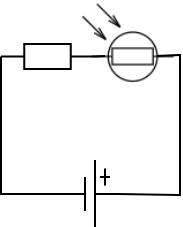
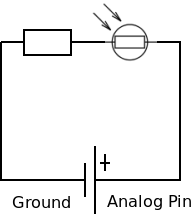
final version of the presentation

Changed region(s): [[0.0, 0.0279, 1.0, 1.0], [0.0546, 0.893, 0.3825, 0.9767], [0.5191, 0.0, 0.5464, 0.0279]]

diff --git a/presentation/content/implementation.tex b/presentation/content/implementation.tex
@@ -9,12 +9,13 @@
 \begin{Verbatim}[fontsize=\scriptsize]
 void setup() 
 {
-  sos = new Sos(mac_addr, 169);
+  sos = new Sos(mac_addr, 123);
+  // it will change
   sos->register_resource(
-    resource_name, resource_name_len, 
-    resource_title, resource_title_len,
-    resource_rt, resource_rt_len,
-    resource_handler);
+    "temp",
+    "Temperature",
+    "temp",
+    handler);
 }
 \end{Verbatim}
 		\end{column}
@@ -33,7 +34,7 @@ void loop()
 	\begin{columns}[c,onlytextwidth]
 		\begin{column}[c]{.5\textwidth}
 			\begin{center}
-				\includegraphics [width=.9\textwidth,keepaspectratio]{img/resistor_led.png}
+				\includegraphics [width=.9\textwidth,keepaspectratio]{img/resistor_led_analog.png}
 			\end{center}
 		\end{column}
 		\begin{column}[c]{.5\textwidth}
@@ -42,13 +43,17 @@ uint8_t process_led(Message &in,
 	               Message &out) 
 {
   int n;
-  char * payload = (char*) 
-    in.get_payload();
-  if(payload != NULL && 
-      sscanf ((const char *) payload, 
-	  "val=%d", &n) == 1)
-  	analogWrite(led, n);
-  out.set_code(COAP_RETURN_CODE(2,5));
+  for(option * o = in.get_option() ; 
+    o != NULL ; o = in.get_option())
+  {
+    if(o->optcode() == option::MO_Uri_Query)
+    {
+      if(sscanf ((const char *) opt.val(), 
+          "val=%d", &n) == 1)
+      	analogWrite(led, n);
+      out.set_code(COAP_RETURN_CODE(2,5));
+    }
+  }
   return 0;
 }
 \end{Verbatim}
@@ -85,33 +90,25 @@ uint8_t process_light(Message &in,
 	\end{columns}
 \end{frame}
 
-\begin{frame}[containsverbatim]{Thermistor}
-	\begin{columns}[c,onlytextwidth]
-		\begin{column}[c]{.5\textwidth}
-			\begin{center}
-				\includegraphics [width=.9\textwidth,keepaspectratio]{img/thermistor.png}
-			\end{center}
-		\end{column}
-		\begin{column}[c]{.5\textwidth}
-\begin{Verbatim}[fontsize=\scriptsize]
-uint8_t temperature_handler(Message &in, 
-                           Message &out) 
-{
-  char message[10];
-  for(int i(0) ; i < 10 ; i++)
-    message[i] = '\0';
-  int sensorValue = 
-    analogRead(tmp_sensor);
-  snprintf(message, 10, "%d\0", 
-                  sensorValue);
-  out.set_payload( strlen(message), 
-        (unsigned char *) message);
-  out.set_code(COAP_RETURN_CODE(2,5));
-  return 0;
-}
-\end{Verbatim}
-		\end{column}
-	\end{columns}
+\begin{frame}{Stats}
+	\begin{center}
+		\includegraphics<1> [width=1\textwidth,keepaspectratio] {pdf/memory0.pdf}
+		\includegraphics<2> [width=1\textwidth,keepaspectratio] {pdf/memory1.pdf}
+	\end{center}
+\end{frame}
+
+\begin{frame} {W5100}
+	\begin{itemize}
+		\item One position possible on the Arduino
+		\item Runs on 3 modes : 
+		\begin{itemize}
+			\item UDP
+			\item TCP
+			\item MAC Raw
+		\end{itemize}
+		\item Advantage : simple to work with UDP and TCP
+		\item Inconvenient : need to implement all other protocols
+	\end{itemize}
 \end{frame}
 
 \begin{frame} {Difficulties}

diff --git a/presentation/content/usage.tex b/presentation/content/usage.tex
@@ -34,14 +34,48 @@ void loop () {
 	\end{columns}
 \end{frame}
 
+\begin{frame}[containsverbatim]{Code sample : resistor and photoresistor}
+	\begin{columns}[c,onlytextwidth]
+		\begin{column}[c]{.5\textwidth}
+			\begin{center}
+				\includegraphics [width=.9\textwidth,keepaspectratio]{img/resistor_photoresistor.png}
+			\end{center}
+		\end{column}
+		\begin{column}[c]{.5\textwidth}
+\begin{Verbatim}[fontsize=\scriptsize]
+#define LIGHT_SENSOR_PIN A0
+
+void setup () {
+  pinMode (LIGHT_SENSOR_PIN, INPUT);
+  Serial.begin(9600);
+}
+
+void loop () {
+  long sensorValue = 
+    analogRead(LIGHT_SENSOR_PIN);
+
+  Serial.print("Light Sensor : ");
+  Serial.println(sensorValue);
+  delay (1000);
+}
+\end{Verbatim}
+		\end{column}
+	\end{columns}
+\end{frame}
+
+
 \begin{frame}[containsverbatim]{Code sample : UDP with EthernetShield }
 	\begin{columns}[c]
 		\begin{column}[c]{.4\textwidth}
 
 \begin{Verbatim}[fontsize=\scriptsize]
+byte mac[] = {
+  0xDE, 0xAD, 0xBE, 
+  0xEF, 0xFE, 0xED };
+IPAddress ip(192, 168, 1, 177);
 void setup() {
   Ethernet.begin(mac,ip);
-  Udp.begin(localPort);
+  Udp.begin(1234);
   Serial.begin(9600);
 }
 \end{Verbatim}
@@ -50,19 +84,22 @@ void setup() {
 		\begin{column}[c]{.8\textwidth}
 
 \begin{Verbatim}[fontsize=\scriptsize]
-int packetSize = Udp.parsePacket();
-if(packetSize)
+void loop()
 {
-  Serial.print("Received packet of size ");
-  Serial.println(packetSize);
-
-  Udp.read(packetBuffer,UDP_TX_PACKET_MAX_SIZE);
-  Serial.println("Contents:");
-  Serial.println(packetBuffer);
-
-  Udp.beginPacket(Udp.remoteIP(), Udp.remotePort());
-  Udp.write(ReplyBuffer);
-  Udp.endPacket();
+  int packetSize = Udp.parsePacket();
+  if(packetSize)
+  {
+    Serial.print("Received packet of size ");
+    Serial.println(packetSize);
+  
+    Udp.read(packetBuffer,UDP_TX_PACKET_MAX_SIZE);
+    Serial.println("Contents:");
+    Serial.println(packetBuffer);
+  
+    Udp.beginPacket(Udp.remoteIP(), Udp.remotePort());
+    Udp.write(ReplyBuffer);
+    Udp.endPacket();
+  }
 }
 \end{Verbatim}
 
@@ -76,13 +113,6 @@ if(packetSize)
 		\includegraphics<2> [width=1\textwidth,keepaspectratio] {img/ide_webserver.png}
 		\includegraphics<3> [width=1\textwidth,keepaspectratio] {img/ide_webserver_buttons.png}
 		\includegraphics<4> [width=1\textwidth,keepaspectratio] {img/ide_serial.png}
-	\end{center}
-\end{frame}
-
-\begin{frame}{Stats}
-	\begin{center}
-		\includegraphics<1> [width=1\textwidth,keepaspectratio] {pdf/memory0.pdf}
-		\includegraphics<2> [width=1\textwidth,keepaspectratio] {pdf/memory1.pdf}
 	\end{center}
 \end{frame}
 

diff --git a/presentation/content/arduino.tex b/presentation/content/arduino.tex
@@ -5,7 +5,7 @@
 
 % What is and why a micro-controller development board.
 % It is a tool for making computers that can sense and control the physical world. 
-\begin{frame} {Why a micro controller development board}
+\begin{frame} {Why a micro controller development board?}
     \begin{itemize}
 		\item to sense and control the physical world
 		\item to develop interactive objects
@@ -26,7 +26,7 @@
 % it offers some advantage for teachers, students, and interested amateurs 
 % over other systems:
 
-\begin{frame}{Why Arduino ?}
+\begin{frame}{Why Arduino?}
 	\begin{itemize}
 		\item inexpensive (\$22)
 		% Inexpensive - Arduino boards are relatively inexpensive compared to other 

diff --git a/presentation/content/components.tex b/presentation/content/components.tex
@@ -18,11 +18,12 @@
 \end{frame}
 
 \begin{frame}{The shields}
+	Shield = Arduino word for expansion board
 	\begin{itemize}
-		\item Ethernet (\$36-75) / WiFi (\$10-70) / GPS (\$50-110) % / Wave (\$4.5-30)
+		\item Ethernet (\$36-75) / WiFi (\$10-70) / GPS (\$50-110)
 		\item Sensors (temperature, humidity, luminosity, …)
-		\item NFC / RFID / SD card
-		\item LCD
+		\item NFC/RFID (\$40) / SD card
+		\item LCD (\$35-50)
 		\item …
 		% There is no real limit, you just do whatever you can do with the power supplied by arduino
 	\end{itemize}
